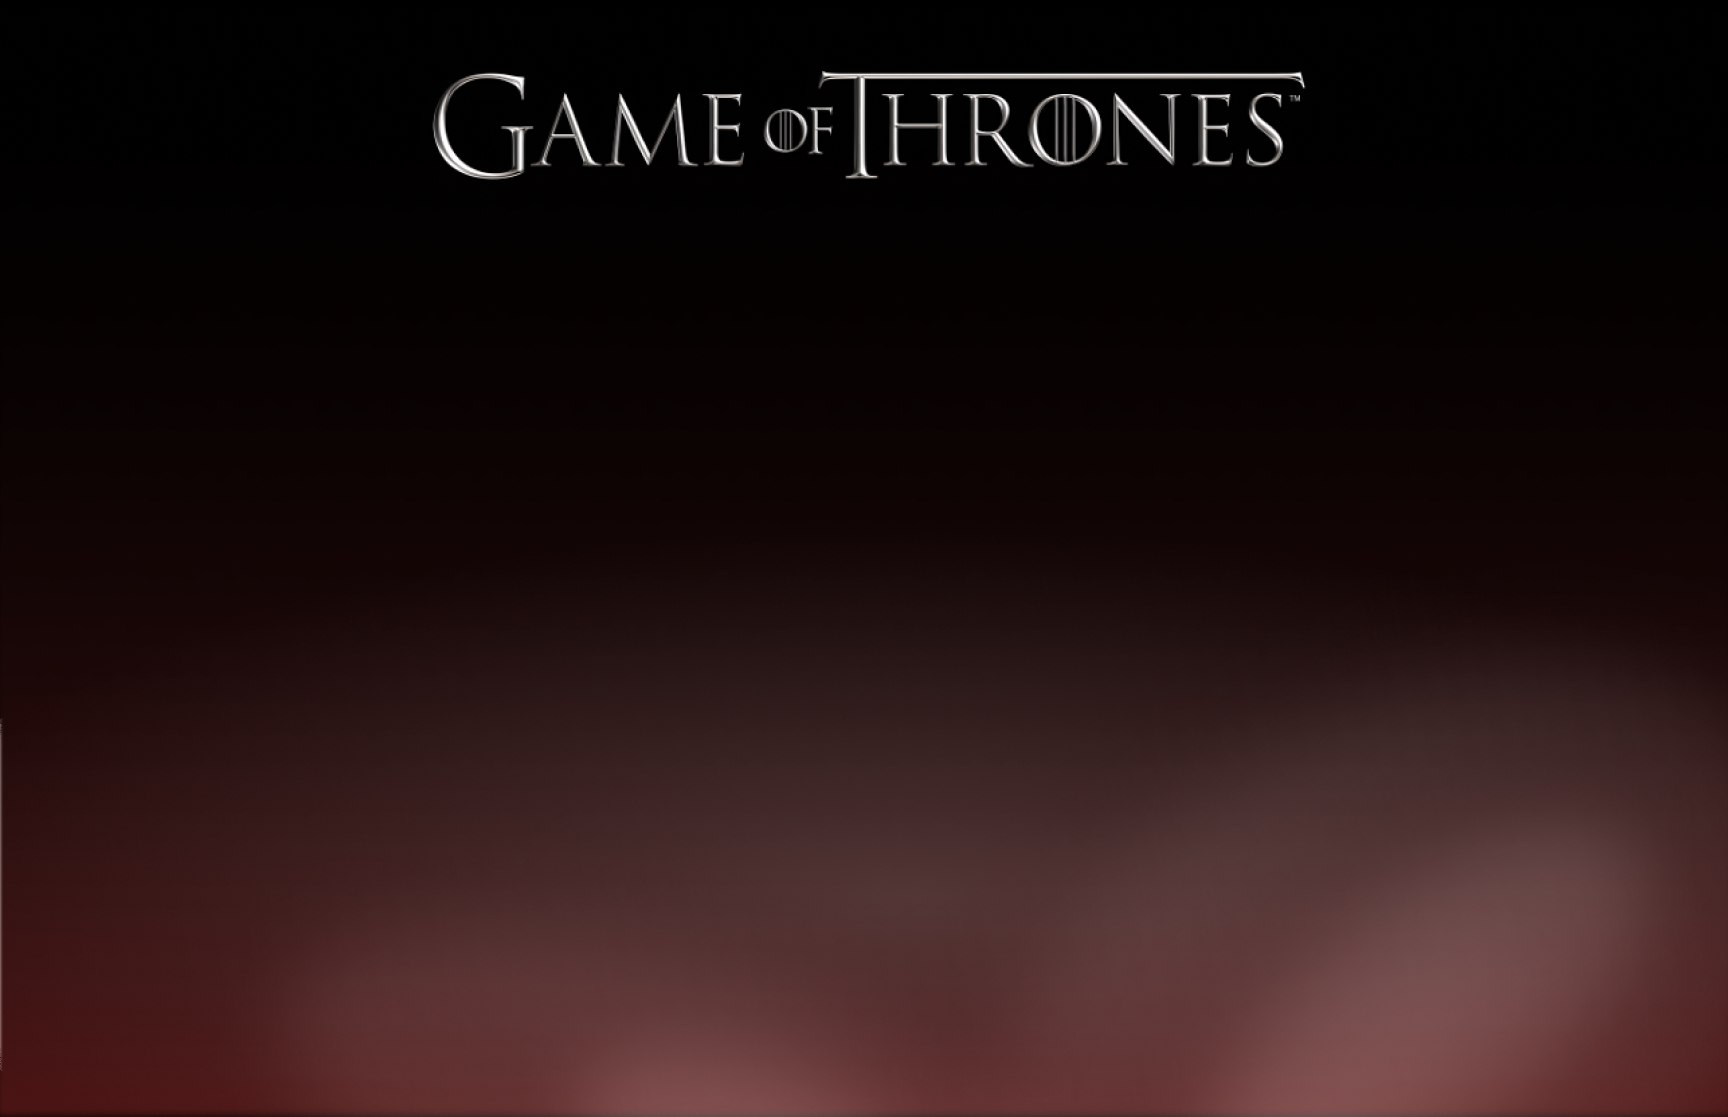
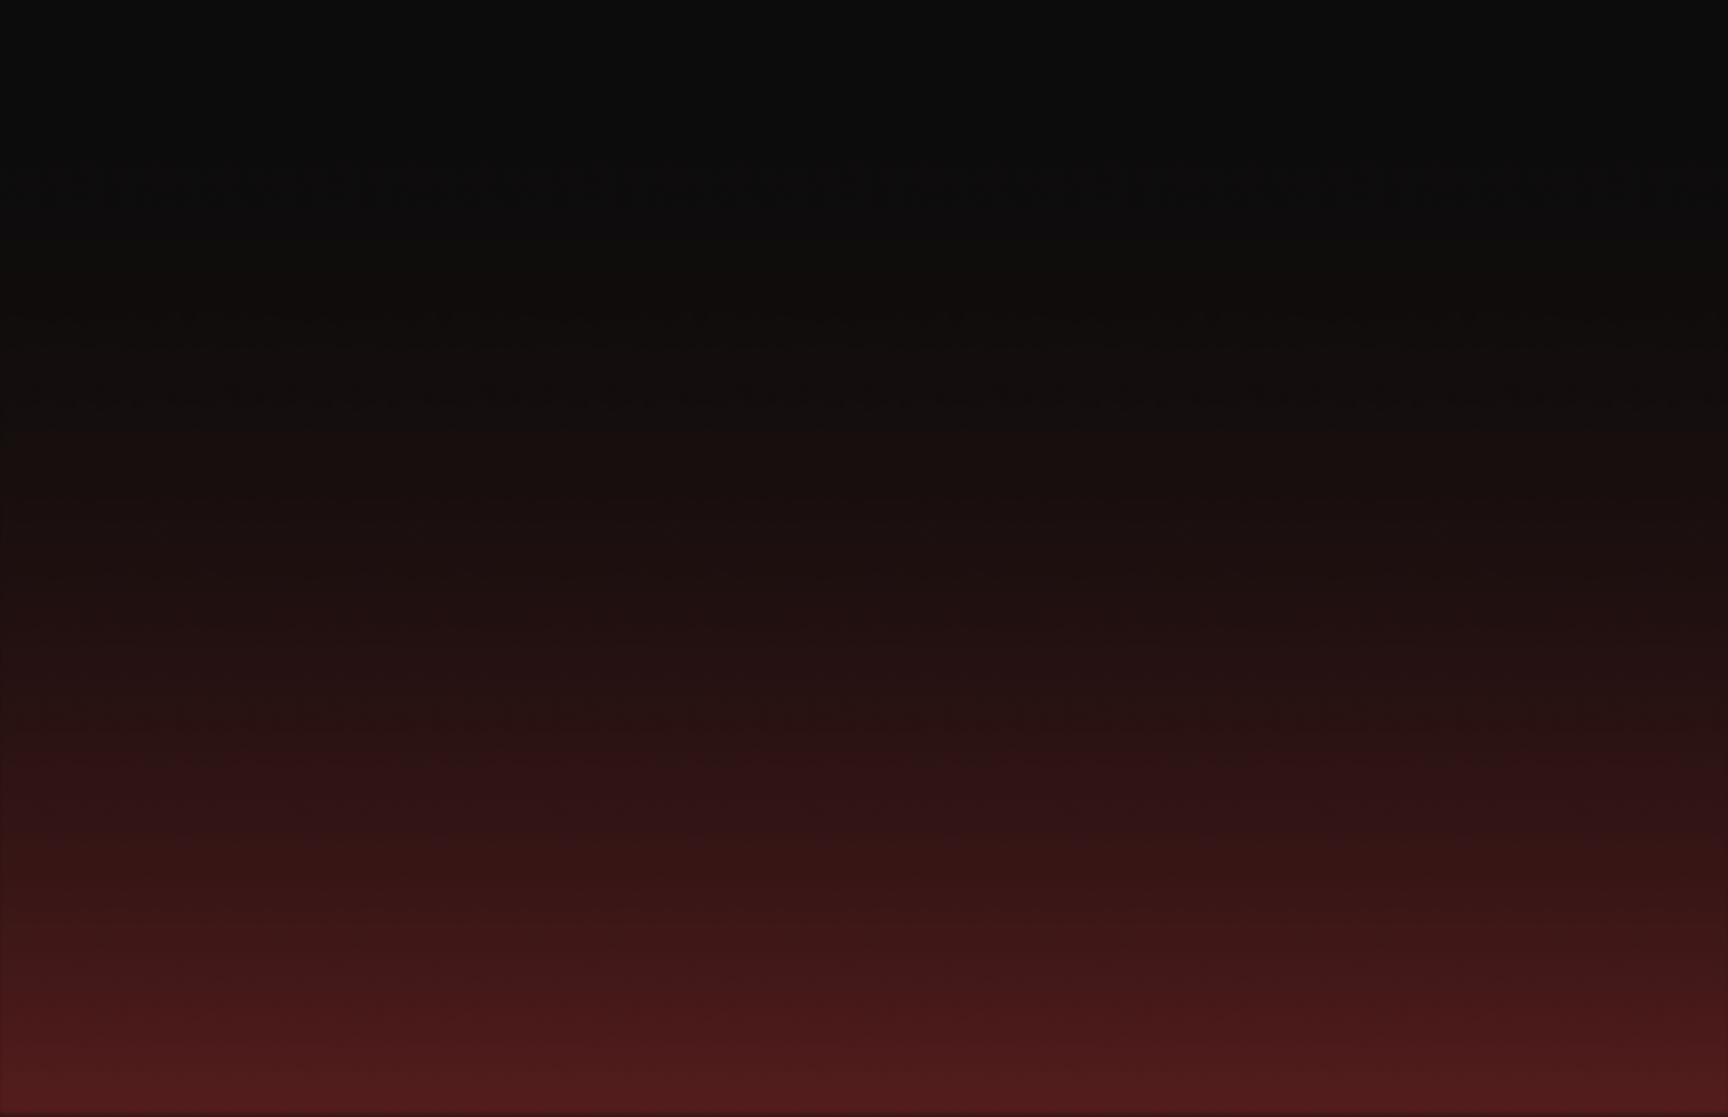
design 2page

Changed region(s): [[0.2188, 0.6697, 0.9688, 1.0], [0.25, 0.0609, 0.75, 0.1826]]

diff --git a/src/page2/index.css b/src/page2/index.css
@@ -1,30 +1,57 @@
-@import url('https://fonts.googleapis.com/css2?family=Playfa+Display+SC&display=swap');
+
+@import url('https://fonts.googleapis.com/css2?family=Playfair+Display:ital,wght@0,400;0,500;0,600;1,400;1,500&display=swap');
 body{
-    background-image: url(./assets/background2page.png);
-    height: 100vh;
+    
+    background-color:rgb(87, 27, 27);
+    
     background-size: cover;
     background-repeat: no-repeat;
     margin-top: 0;
+    font-family: 'Playfair Display', serif;
   
   }
-  h1, h2, p {
-    font-family: 'Playfair Display SC', serif;
-    color: white;
+  .main{
+    background-image: url(./assets/background2page.png);
+    /* opacity: 0.6; */
   }
-  h1 {
-    margin-top: 15%;
+
+  .container {
+    
+    position: absolute;
+    z-index: 1;
+    background-color: #f8f8f8;
+    box-shadow: 0px 4px 4px #f8f8f8(0, 0, 0, 0.25);
+    width: 60%;
+    height: auto;
+    padding: 2% 5% 6% 5%;
+    margin: 5% 10%;
+    
+    color: rgb(22, 22, 22);
+    transition: all 0.8s ease 0s;
+    transform: translate(0px, 0px);
+
+    display: flex;
+    flex-direction: column;
+    justify-content: center;
+    align-content: center;
+    
+   
+
   }
+  
 
 .result {
     display: flex;
     flex-direction: column;
+    justify-content: center;
+    align-content: center;
   
-   padding: 5% ;
+    padding: 5% ;
    
 }
 
 #about {
-    font-family: 'Playfair Display SC', serif;
+  
     line-height: 1em;
     font-size: 1.25em;
     text-align: center;
@@ -33,18 +60,17 @@ body{
 }
 
 #avatar {
-    position: absolute;
-    top: 10%;
-    left: 5%;
+    align-self: center;
     width: calc(20vw - 60px);
     
 }
-
-img.lordImg {
+.div_Lord{
+  display: flex;
+  flex-direction: column;
+}
+.lordImg {
     width: 400px;
-    position: absolute;
-    right: 5%;
-    top: 50%;
+    margin: 0 auto;
+    
 }
     
-

diff --git a/src/page2/index.js b/src/page2/index.js
@@ -1,3 +1,6 @@
+// import translateText from "./js/translate.js";
+
+
 console.log(localStorage.getItem("got"));
 const node = document.querySelector(".result")
 
@@ -9,10 +12,11 @@ if(localStorage.getItem("got") == "Таргариан") {
         try {
             let response = await fetch("https://www.anapioficeandfire.com/api/houses?name=House Targaryen of King's Landing");
             let data = await response.json();
-            console.log(data);
     
             let name = document.createElement('h2');
-            name.textContent = data[0].name;
+            name = data[0].name;
+            translateText(name);
+            name.textContent = textRu;
             node.append(name);
     
             let date = document.createElement('p');
@@ -193,11 +197,11 @@ else if(localStorage.getItem("got") == "Ланистер") {
             let response = await fetch("https://www.anapioficeandfire.com/api/houses?name=House Lannister of Casterly Rock");
             let data = await response.json();
             console.log(data);
-    
+            
             let name = document.createElement('h2');
             name.textContent = data[0].name;
             node.append(name);
-    
+
             let date = document.createElement('p');
             date.classList.add("date");
             date.innerHTML= `<h3>Основан в: </h3>` + data[0].founded;

diff --git a/src/page2/index.html b/src/page2/index.html
@@ -10,17 +10,19 @@
   <link rel="stylesheet" href="index.css" />
 </head>
 <body>
-  <main>
-    <h1 id="about"></h1>
-    <img src="" id="avatar">
-    <div class="result">
+  <main class="main">
+    <div class="container">
+      <img src="" id="avatar">
+      <h1 id="about"></h1>
+      <div class="result">
+      </div>
+
     </div>
+    
   </main>
  
 
-
-  <script src="index.js"></script>
-  <script type="module" src="script.js"></script>
+  <script type="module" src="index.js"></script>
 </body>
 
 </html>

diff --git a/src/page2/js/translate.js b/src/page2/js/translate.js
@@ -1,0 +1,10 @@
+import translate from "/translate.min.js";
+translate.engine = "deepl";
+
+export default async function translateText(textEn){
+  const textRu = await translate(`${textEn}`, "ru");
+  return textRu
+}
+
+
+
